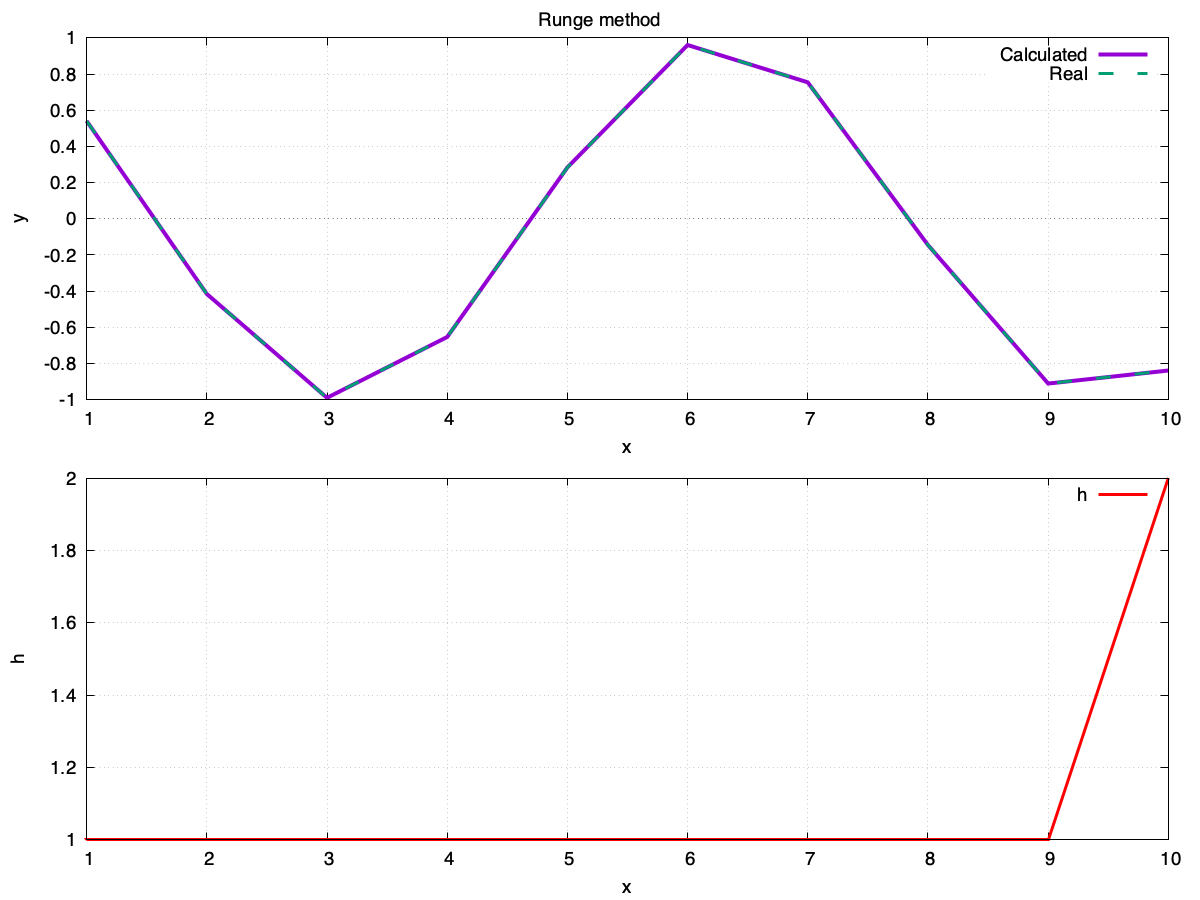
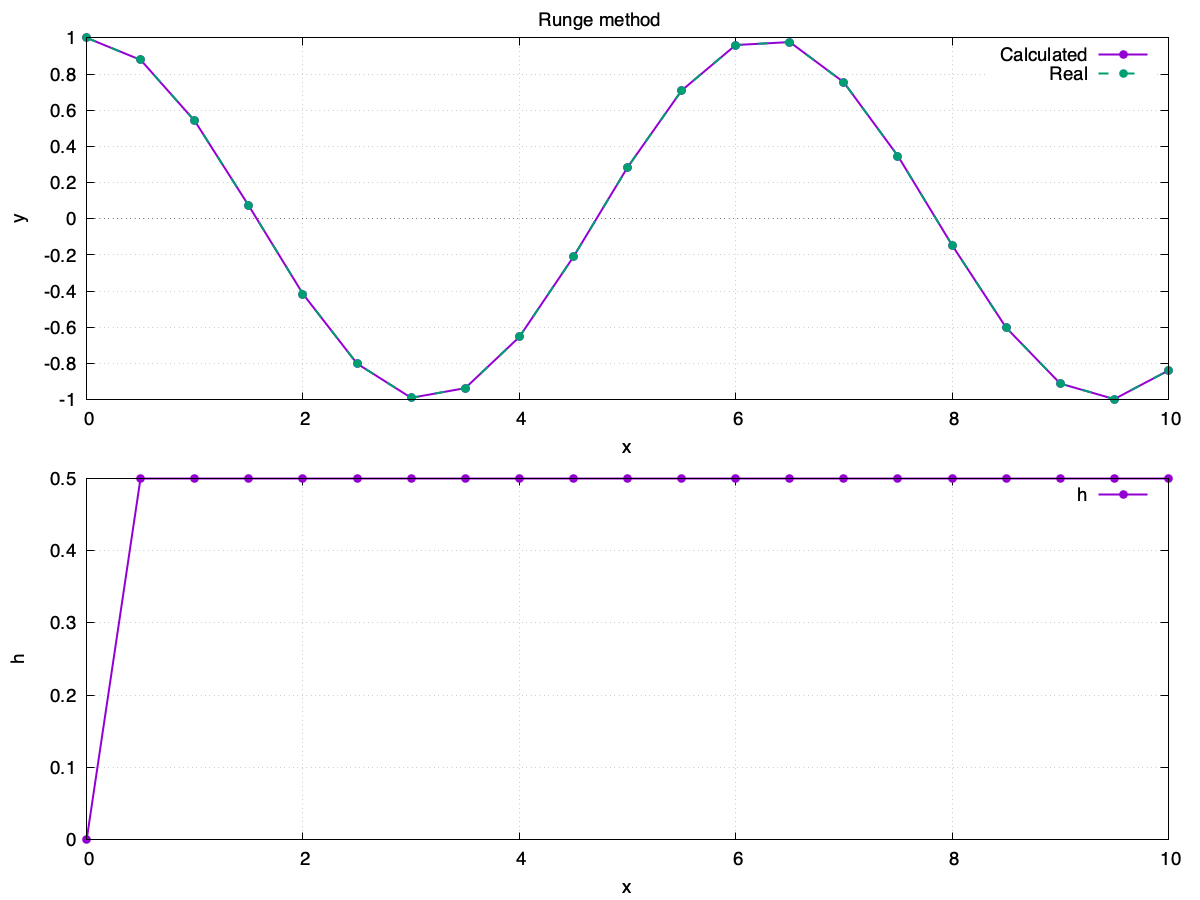
up

diff --git a/task_5_files/task_5.c b/task_5_files/task_5.c
@@ -6,15 +6,16 @@
 
 int main(int argc, char *argv[]) {
 
-    double xR, x, y, H_MIN, H_MAX, thr_error, h, y_big_step, \
-    y_small_step, x_big_step, x_small_step, estimated_error;
+    double xR, x, y, H_MIN, H_MAX, thr_error, h, y_big_step, h_old, \
+    y_small_step, x_big_step, x_small_step, estimated_error, y_small_step_inner, \
+    x_small_step_inner;
     int s, K, exiting_code, is_step_made, num_of_function;
     double (*f)(double, double, double *);
     double (*f_sol)(double, double *);
     double *additional_args_to_function;
     char path[256];
     FILE* file;
-    //Parsing args
+    //parsing args
     assert(argc>=5);
     assert(sscanf(argv[1], "%d", &num_of_function)==1);
     assert(sscanf(argv[2], "%lf", &x)==1);
@@ -30,7 +31,7 @@ int main(int argc, char *argv[]) {
     file = fopen(path, "w");
     exiting_code = 0;
     s = 4;
-    K = 32; //Use this K for the 4-th order
+    K = 32; //use this K for the 4-th order
     thr_error = 1e-4;
     H_MIN = 1e-10;
     H_MAX = xR-x;
@@ -50,8 +51,9 @@ int main(int argc, char *argv[]) {
             break;
     }
 
+    //initial point
     y = f_sol(x, additional_args_to_function);
-    fprintf(file, "%lf %lf %lf %lf \n", x, y, f_sol(x, additional_args_to_function), h);
+    fprintf(file, "%lf %lf %lf %lf \n", x, y, f_sol(x, additional_args_to_function), 0.0);
     while (x < xR) {
         if (x + h > xR) {
             h = xR - x;
@@ -73,14 +75,22 @@ int main(int argc, char *argv[]) {
         
         //two step path
         make_step(&x_small_step, &y_small_step, h/2, f, additional_args_to_function);
+        //first inner point to report
+        y_small_step_inner = y_small_step; 
+        x_small_step_inner = x_small_step; 
         make_step(&x_small_step, &y_small_step, h/2, f, additional_args_to_function);
+        
         //one step path
         make_step(&x_big_step, &y_big_step, h, f, additional_args_to_function);
 
         estimated_error = (y_big_step - y_small_step)/(pow(2, s) - 1);
+        h_old = h/2; //the size of small steps
         is_step_made = get_step(estimated_error, thr_error, K, &h, y_small_step, &y, &x);
-        if (is_step_made)
-            fprintf(file, "%.3lf %.15lf %.15lf %.6e \n", x, y, f_sol(x, additional_args_to_function), h);
+        if (is_step_made) {
+            //print two points from small steps
+            fprintf(file, "%.3lf %.15lf %.15lf %.6e \n", x_small_step_inner, y_small_step_inner, f_sol(x_small_step_inner, additional_args_to_function), h_old);
+            fprintf(file, "%.3lf %.15lf %.15lf %.6e \n", x, y, f_sol(x, additional_args_to_function), h_old);
+        }
     }
     return exiting_code;
 }
